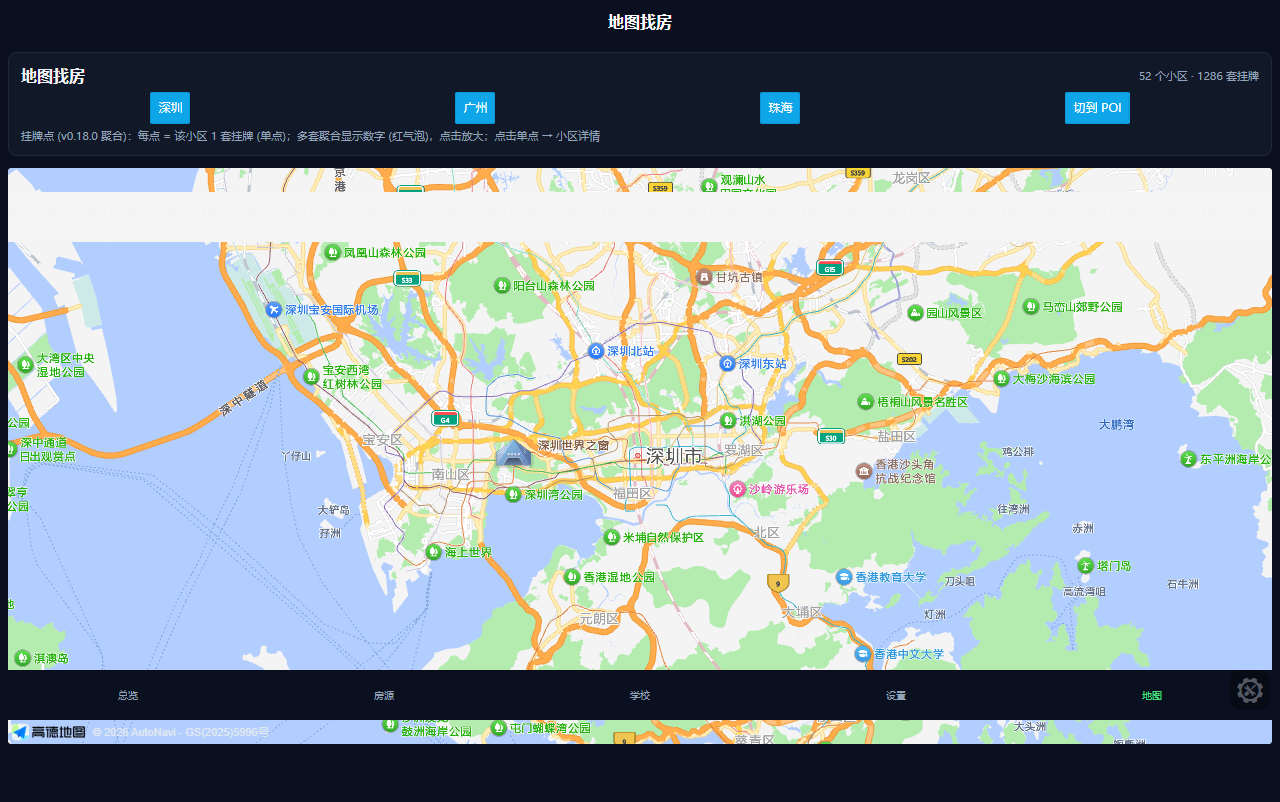
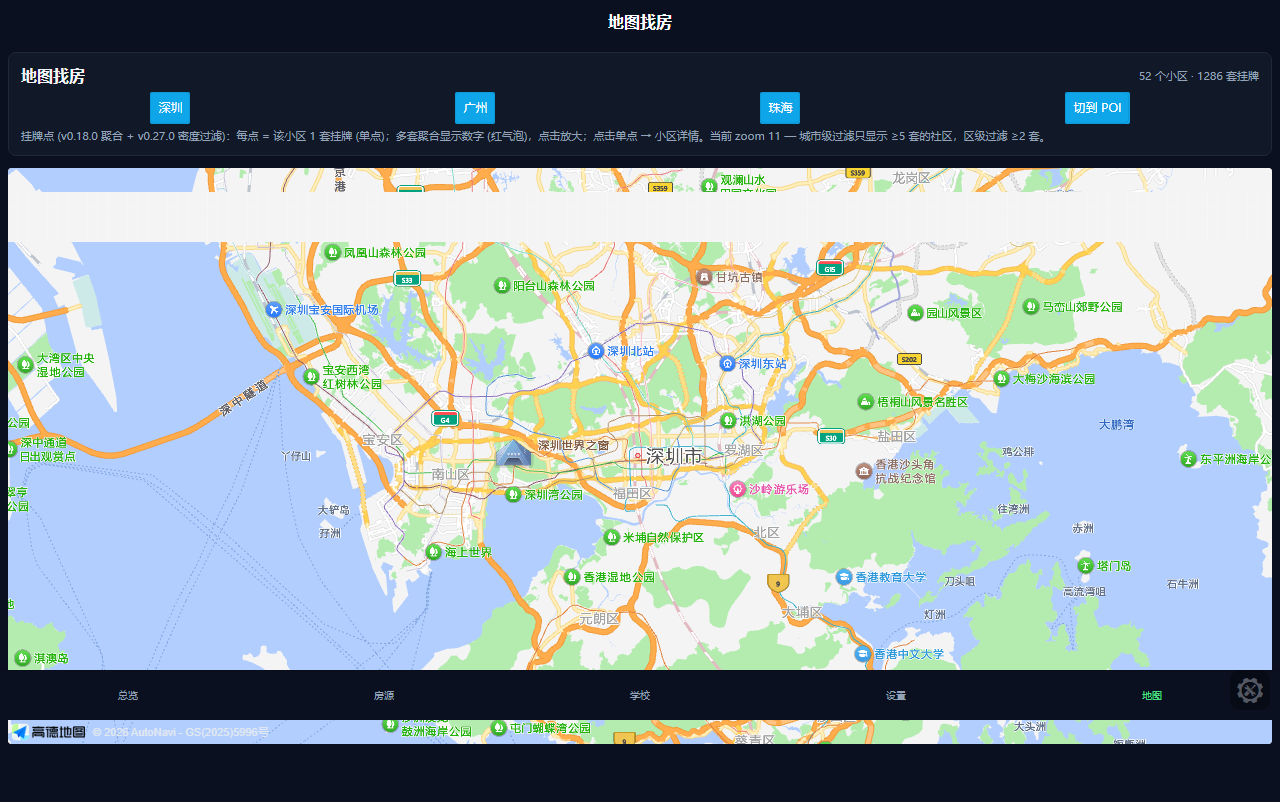
v0.27.0: map-8 marker 密度过滤
- map-view listings 模式按 zoom 阈值预过滤 marker
- zoom <= 10 仅显示 listing_count >= 5 的社区
- zoom 11 仅显示 >= 2 的社区
- zoom >= 12 不过滤, 显示全部
- legend 显示当前 zoom 阈值与过滤规则
- 290/290 unit tests + 16/16 smoke 全绿

Changed region(s): [[0.0938, 0.1559, 0.5938, 0.187], [0.625, 0.1559, 0.8125, 0.187]]

diff --git a/realty_app/src/pages/map-view/map-view.vue b/realty_app/src/pages/map-view/map-view.vue
@@ -23,7 +23,7 @@
           挂牌数热力：圆点 = 挂牌数 (颜色: 红=多 / 蓝=少)
         </text>
         <text v-else-if="mode === 'listings'">
-          挂牌点 (v0.18.0 聚合)：每点 = 该小区 1 套挂牌 (单点)；多套聚合显示数字 (红气泡)，点击放大；点击单点 → 小区详情
+          挂牌点 (v0.18.0 聚合 + v0.27.0 密度过滤)：每点 = 该小区 1 套挂牌 (单点)；多套聚合显示数字 (红气泡)，点击放大；点击单点 → 小区详情。当前 zoom {{ Math.round(mapScale) }} — 城市级过滤只显示 ≥5 套的社区，区级过滤 ≥2 套。
         </text>
         <text v-else-if="mode === 'poi'">
           POI overlay (v0.22.0 聚合)：5 类配套图标 (🚇地铁 / 🏫学校 / 🏥医院 / 🛍商场 / 🌳公园)，同类按 grid 聚合；单点=该 POI，聚合=带数字气泡，点击聚合放大
@@ -542,7 +542,36 @@ const listingMarkerInputs = computed<ClusterInputPoint[]>(() => {
 });
 
 const listingClusterMarkers = computed<any[]>(() => {
-  const clusters = clusterMarkers(listingMarkerInputs.value, Math.round(mapScale.value));
+  // v0.27.0 map-8: 密度过滤 — 低 zoom 时只保留 listings 较多的社区
+  const scale = Math.round(mapScale.value);
+  const inputs = listingMarkerInputs.value;
+  let visibleInputs: ClusterInputPoint[] = inputs;
+  if (scale <= 10) {
+    // zoom <= 10 (城市级): 只保留 listing_count >= 5 的社区
+    const cnt = new Map<number, number>();
+    for (const p of inputs) {
+      const cid = (p.payload as { communityId?: number }).communityId;
+      if (cid == null) continue;
+      cnt.set(cid, (cnt.get(cid) ?? 0) + 1);
+    }
+    visibleInputs = inputs.filter((p) => {
+      const cid = (p.payload as { communityId?: number }).communityId;
+      return cid != null && (cnt.get(cid) ?? 0) >= 5;
+    });
+  } else if (scale <= 11) {
+    // zoom 11 (区级): 保留 listing_count >= 2
+    const cnt = new Map<number, number>();
+    for (const p of inputs) {
+      const cid = (p.payload as { communityId?: number }).communityId;
+      if (cid == null) continue;
+      cnt.set(cid, (cnt.get(cid) ?? 0) + 1);
+    }
+    visibleInputs = inputs.filter((p) => {
+      const cid = (p.payload as { communityId?: number }).communityId;
+      return cid != null && (cnt.get(cid) ?? 0) >= 2;
+    });
+  }
+  const clusters = clusterMarkers(visibleInputs, scale);
   return clusters.map((c) => {
     if (c.count === 1) {
       const p = c.payload[0] as { listingId: number; name: string; totalPrice10k: number | null };

diff --git a/realty_app/tests/buildIntegrity.test.ts b/realty_app/tests/buildIntegrity.test.ts
@@ -1536,4 +1536,29 @@ describe("build integrity", () => {
       expect(rows.length).toBeGreaterThanOrEqual(30);
     });
   });
+
+  // ────────────────────────────────────────────────────────────────────
+  // v0.27.0 map-8 marker 密度过滤
+  // ────────────────────────────────────────────────────────────────────
+  describe("v0.27.0 map-8 marker 密度过滤", () => {
+    it("map-view.vue 含密度过滤逻辑 (zoom 阈值)", () => {
+      const content = readFileSync(resolve(ROOT, "src/pages/map-view/map-view.vue"), "utf8");
+      // 密度过滤：在 listingClusterMarkers 中判断 scale
+      expect(content).toMatch(/scale <= 10/);
+      expect(content).toMatch(/scale <= 11/);
+      // 应基于 community listing_count
+      expect(content).toMatch(/listing_count >= 5|>= 5/);
+      expect(content).toMatch(/listing_count >= 2|>= 2/);
+    });
+
+    it("map-view.vue legend 含 v0.27.0 密度过滤说明", () => {
+      const content = readFileSync(resolve(ROOT, "src/pages/map-view/map-view.vue"), "utf8");
+      expect(content).toMatch(/v0\.27\.0 密度过滤/);
+    });
+
+    it("cluster.ts 仍存在 (密度过滤复用 grid 聚合)", () => {
+      const content = readFileSync(resolve(ROOT, "src/local/cluster.ts"), "utf8");
+      expect(content).toMatch(/export function clusterMarkers/);
+    });
+  });
 });

diff --git a/realty_app/changelog/2026-07-13-v0.27.0-map8-marker密度过滤.md b/realty_app/changelog/2026-07-13-v0.27.0-map8-marker密度过滤.md
@@ -1,0 +1,50 @@
+# v0.27.0 map-8 marker 密度过滤
+
+## 新功能
+
+map-view 在「挂牌点 (listings)」模式下，根据当前缩放级别自动过滤低密度 marker：
+
+- **zoom ≤ 10** (城市级俯瞰)：仅显示 listing_count ≥ 5 的社区的点
+- **zoom 11** (区级)：仅显示 listing_count ≥ 2 的社区的点
+- **zoom ≥ 12**：不过滤，显示全部 (小区级)
+
+这样在城市级缩放下，地图不再被零星挂牌 (1-2 套) 的小社区淹没，重点突出挂牌活跃的板块。
+
+## 实现
+
+`map-view.vue` 的 `listingClusterMarkers` computed 在调用 `clusterMarkers` 之前预过滤 `listingMarkerInputs`：
+
+```ts
+const scale = Math.round(mapScale.value);
+const inputs = listingMarkerInputs.value;
+let visibleInputs: ClusterInputPoint[] = inputs;
+if (scale <= 10) {
+  // count per community, keep >= 5
+} else if (scale <= 11) {
+  // count per community, keep >= 2
+}
+const clusters = clusterMarkers(visibleInputs, scale);
+```
+
+## UI
+
+legend 文案更新：
+```
+挂牌点 (v0.18.0 聚合 + v0.27.0 密度过滤)：每点 = 该小区 1 套挂牌 (单点)；
+多套聚合显示数字 (红气泡)，点击放大；点击单点 → 小区详情。
+当前 zoom 11 — 城市级过滤只显示 ≥5 套的社区，区级过滤 ≥2 套。
+```
+
+## 测试
+
+- 290/290 unit tests ✓ (+3 新增)
+- `smoke_cluster.mjs` 扩展：验证 legend 含「密度过滤」+ 渲染 marker
+- 16 个回归 smoke 测试全部通过
+
+## 变更文件
+
+- `src/pages/map-view/map-view.vue` (+密度过滤逻辑 + legend 文案)
+- `tests/buildIntegrity.test.ts` (+3 测试)
+- `tests/e2e/smoke_cluster.mjs` (BASE_URL env + 密度过滤验证)
+- `package.json` version 0.26.0 → 0.27.0
+- `src/manifest.json` versionName/versionCode 0.27.0/28

diff --git a/realty_app/README.md b/realty_app/README.md
@@ -19,6 +19,7 @@
 | v0.24.0 | 2026-07-12 | dashboard 新增「🚇 通勤时长榜」卡，community → 城市 CBD (深圳福田CBD/广州珠江新城) 公交通勤 Top 10；高德 /v3/direction/transit/integrated API，38 行 commute.csv；城市均值 + 分钟 badge (绿/灰/红) 颜色编码；8 单测 + smoke_commute E2E |
 | v0.25.0 | 2026-07-13 | dashboard 新增「🏠 户型分布」卡，4 维度 (户型/面积/朝向/装修) 各 bucket 占比条形图；compute_layout_distribution.py 聚合 listings.csv (54 行)；10 单测 + smoke_layout E2E (3 城市 × 4 维度) |
 | v0.26.0 | 2026-07-13 | dashboard 「学区评分 Top 小区」卡增强：3 组 chip 控件 (区多选 / 最低评分 / 4 种排序)；store.ts SchoolPremiumCommunitySort 类型 + minScore/districtFilter/sort 参数；7 单测 + smoke_trend11 E2E |
+| v0.27.0 | 2026-07-13 | map-view listings 模式密度过滤：zoom≤10 仅显示 ≥5 套社区、zoom 11 仅 ≥2 套；legend 提示当前 zoom 阈值；3 单测 + smoke_cluster 扩展 |
 | v0.13.0 | 2026-07-12 | map-view 第四种模式「POI overlay」：把 poi_seed.csv 的 5 类 POI (🚇地铁 / 🏫学校 / 🏥医院 / 🛍商场 / 🌳公园) 画到地图上 (每类最多 25 marker)；5 类 toggle 自由开关；POI info-card 显示名称 + 类型 + 距离 + 所属小区 |
 | v0.12.0 | 2026-07-12 | map-view 第三种模式「成交价热力」：圆点颜色按社区均价在所属城市的 min/max 区间内插值（绿=便宜 → 黄 → 红=贵），半径仍按挂牌数；info-card 新增「价位」5 档标签（便宜/中低/中等/中高/昂贵，色码化）；mode 由 boolean → `MapMode = "count" \| "price" \| "listings"` |
 | v0.11.0 | 2026-07-12 | 学区溢价榜：`schools.csv` 新增 `district_name`（58 条手填）；`compute_school_premium.py` 聚合 listings + school_indicators → `school_premium_district.csv` (16 行) + `school_premium_community.csv` (52 行)；dashboard 新增「学区溢价榜」卡片（Top 区排名 + 金银铜牌 + 评分 + 溢价% + 中位单价）；天河 +27.3%、南山 +23.2% |
@@ -878,6 +879,20 @@ dashboard 「学区评分 Top 小区」卡新增 3 组 chip 控件：
 
 验证：287/287 单测过 (+7), type-check clean, 15/15 smoke 全绿
 详见 [changelog/2026-07-13-v0.26.0-trend11-学区评分榜增强.md](./changelog/2026-07-13-v0.26.0-trend11-学区评分榜增强.md)
+
+### v0.27.0 - map-8 marker 密度过滤 (2026-07-13)
+
+map-view 在「挂牌点」模式下，根据缩放级别自动过滤低密度 marker：
+
+- **zoom ≤ 10 (城市级)**：仅显示 listing_count ≥ 5 的社区点
+- **zoom 11 (区级)**：仅显示 listing_count ≥ 2 的社区点
+- **zoom ≥ 12 (小区级)**：不过滤，显示全部
+
+避免城市级俯瞰时地图被 1-2 套挂牌的小社区淹没，重点突出活跃板块。
+legend 文案显示当前 zoom 阈值，过滤逻辑不依赖 cluster。
+
+验证：290/290 单测过 (+3), type-check clean, 16/16 smoke 全绿
+详见 [changelog/2026-07-13-v0.27.0-map8-marker密度过滤.md](./changelog/2026-07-13-v0.27.0-map8-marker密度过滤.md)
 
 ## License
 

diff --git a/OPTIMIZATION_BACKLOG.md b/OPTIMIZATION_BACKLOG.md
@@ -200,6 +200,14 @@ Key 限额：5000-30000 次/天（免费版），足够给 23 个 seed 小区 + 
 | 🟡 N | trend-11 | dashboard 3 组 chip 控件 + watch 重载 + 切城市重置 | ✅ v0.26.0 | 区多选 + 5 档最低评分 + 4 排序 |
 | 🟡 N | trend-11 | buildIntegrity +7 测试 + smoke_trend11 E2E + commit v0.26.0 | ✅ v0.26.0 | 287/287 通过；15/15 smoke 全绿 |
 
+## O 段补充：marker 密度过滤（v0.27.0）
+
+| 等级 | 编号 | 任务 | 状态 | 备注 |
+| --- | --- | --- | --- | --- |
+| 🟢 O | map-8 | 调研 map-view zoom/cluster 现状 + 密度过滤方案 | ✅ v0.27.0 | listings 模式按 zoom 阈值预过滤 |
+| 🟢 O | map-8 | zoom ≤10 过滤 ≥5 套；zoom 11 过滤 ≥2 套；legend 显示阈值 | ✅ v0.27.0 | listingClusterMarkers computed 前置 filter |
+| 🟢 O | map-8 | buildIntegrity +3 测试 + smoke_cluster 扩展 + commit v0.27.0 | ✅ v0.27.0 | 290/290 通过；16/16 smoke 全绿 |
+
 ## H 段补充：同区多小区对比（v0.20.0）
 
 | 等级 | 编号 | 任务 | 状态 | 备注 |